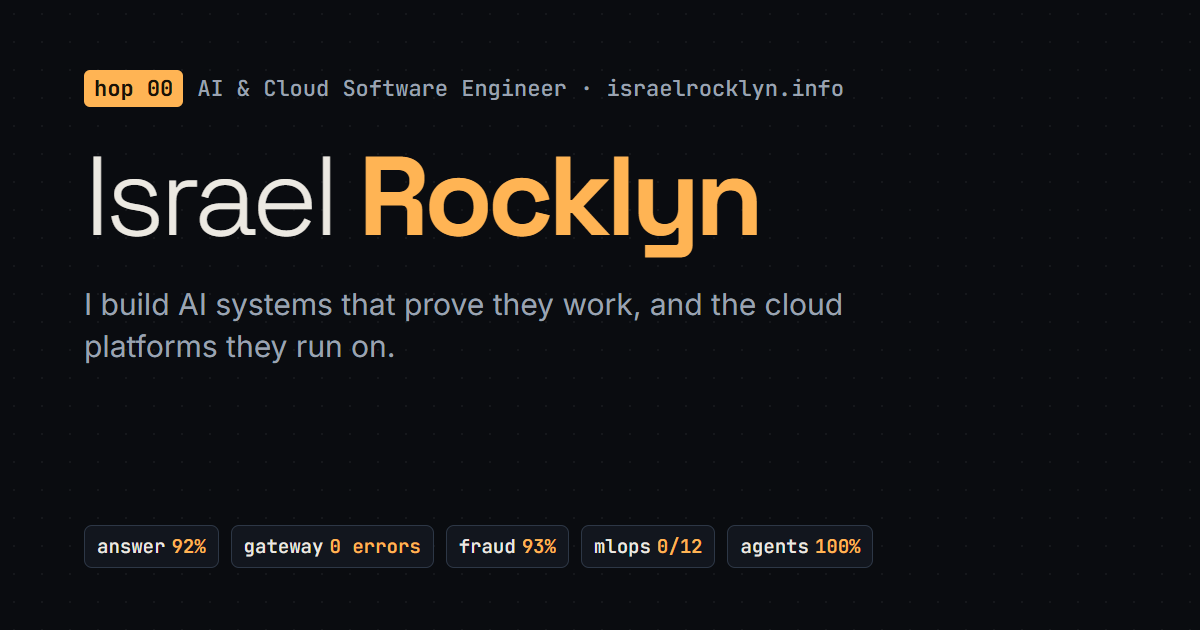
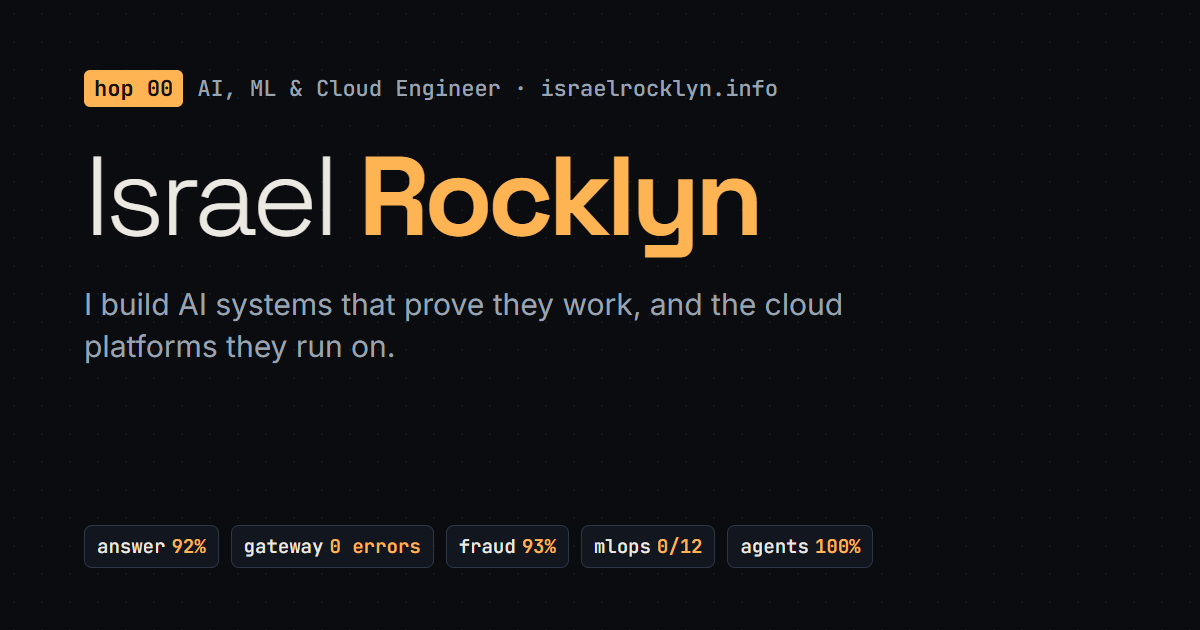
Use AI, ML & Cloud Engineer headline and a plain portrait

Changed region(s): [[0.185, 0.1206, 0.7092, 0.1508]]

diff --git a/index.php b/index.php
@@ -21,7 +21,7 @@ header('Cache-Control: no-cache'); // the form token is time-stamped
 
 view('head', [
     'title' => $p['name'] . ' · ' . $p['headline'],
-    'description' => 'Israel Rocklyn, AI & Cloud Software Engineer: 10 production-grade AI and cloud systems with tests, CI and measured results. RAG with citations, LLM agents with human approval, MLOps, model serving on Kubernetes, AWS.',
+    'description' => 'Israel Rocklyn, AI, ML & Cloud Engineer: 10 production-grade AI and cloud systems with tests, CI and measured results. RAG with citations, LLM agents with human approval, MLOps, model serving on Kubernetes, AWS.',
     'path' => '/',
     'rail' => true,
     'jsonld' => [
@@ -49,7 +49,7 @@ view('head', [
     </div>
     <figure class="portrait<?= $portrait ? '' : ' portrait-placeholder' ?>">
 <?php if ($portrait): ?>
-      <img src="<?= e(asset('img/portrait.webp')) ?>" alt="Portrait of <?= e($p['name']) ?>: half painted, half photograph" width="900" height="1000" fetchpriority="high">
+      <img src="<?= e(asset('img/portrait.webp')) ?>" alt="Portrait of <?= e($p['name']) ?>" width="900" height="1000" fetchpriority="high">
 <?php else: ?>
       <div class="portrait-art" aria-hidden="true"><span class="half half-paint"></span><span class="half half-wire"></span><span class="mono-mark">IR</span></div>
 <?php endif; ?>

diff --git a/app/data/profile.php b/app/data/profile.php
@@ -8,11 +8,11 @@ declare(strict_types=1);
 
 return [
     'name' => 'Israel Rocklyn',
-    'headline' => 'AI & Cloud Software Engineer',
+    'headline' => 'AI, ML & Cloud Engineer',
     'location' => 'United States',
     'github' => 'https://github.com/codeROCK-IZZY',
     'intro' => 'I build AI systems that prove they work, and the cloud platforms they run on.',
-    'summary' => 'AI & Cloud Engineer and Full-Stack Developer. I take products from data and models through the '
+    'summary' => 'AI, ML & Cloud Engineer and Full-Stack Developer. I take products from data and models through the '
         . 'API and interface to the infrastructure, and every one ships with tests, CI and measured results. '
         . 'I also build WordPress sites and run digital marketing, so I can help a product reach people, not only work.',
     'roles' => [

diff --git a/app/bootstrap.php b/app/bootstrap.php
@@ -10,7 +10,7 @@
 declare(strict_types=1);
 
 const SITE_URL = 'https://israelrocklyn.info';
-const ASSET_VERSION = '5';
+const ASSET_VERSION = '6';
 
 ini_set('display_errors', '0');
 ini_set('log_errors', '1');

diff --git a/README.md b/README.md
@@ -1,7 +1,7 @@
 # israelrocklyn.info
 
-The source of [israelrocklyn.info](https://israelrocklyn.info), the portfolio of Israel Rocklyn, AI & Cloud
-Software Engineer.
+The source of [israelrocklyn.info](https://israelrocklyn.info), the portfolio of Israel Rocklyn, AI, ML & Cloud
+Engineer.
 
 It is a PHP site with no framework, no database and no build step. Content lives in three PHP data
 files, pages are rendered from shared templates, and every number on it comes from the evaluation
